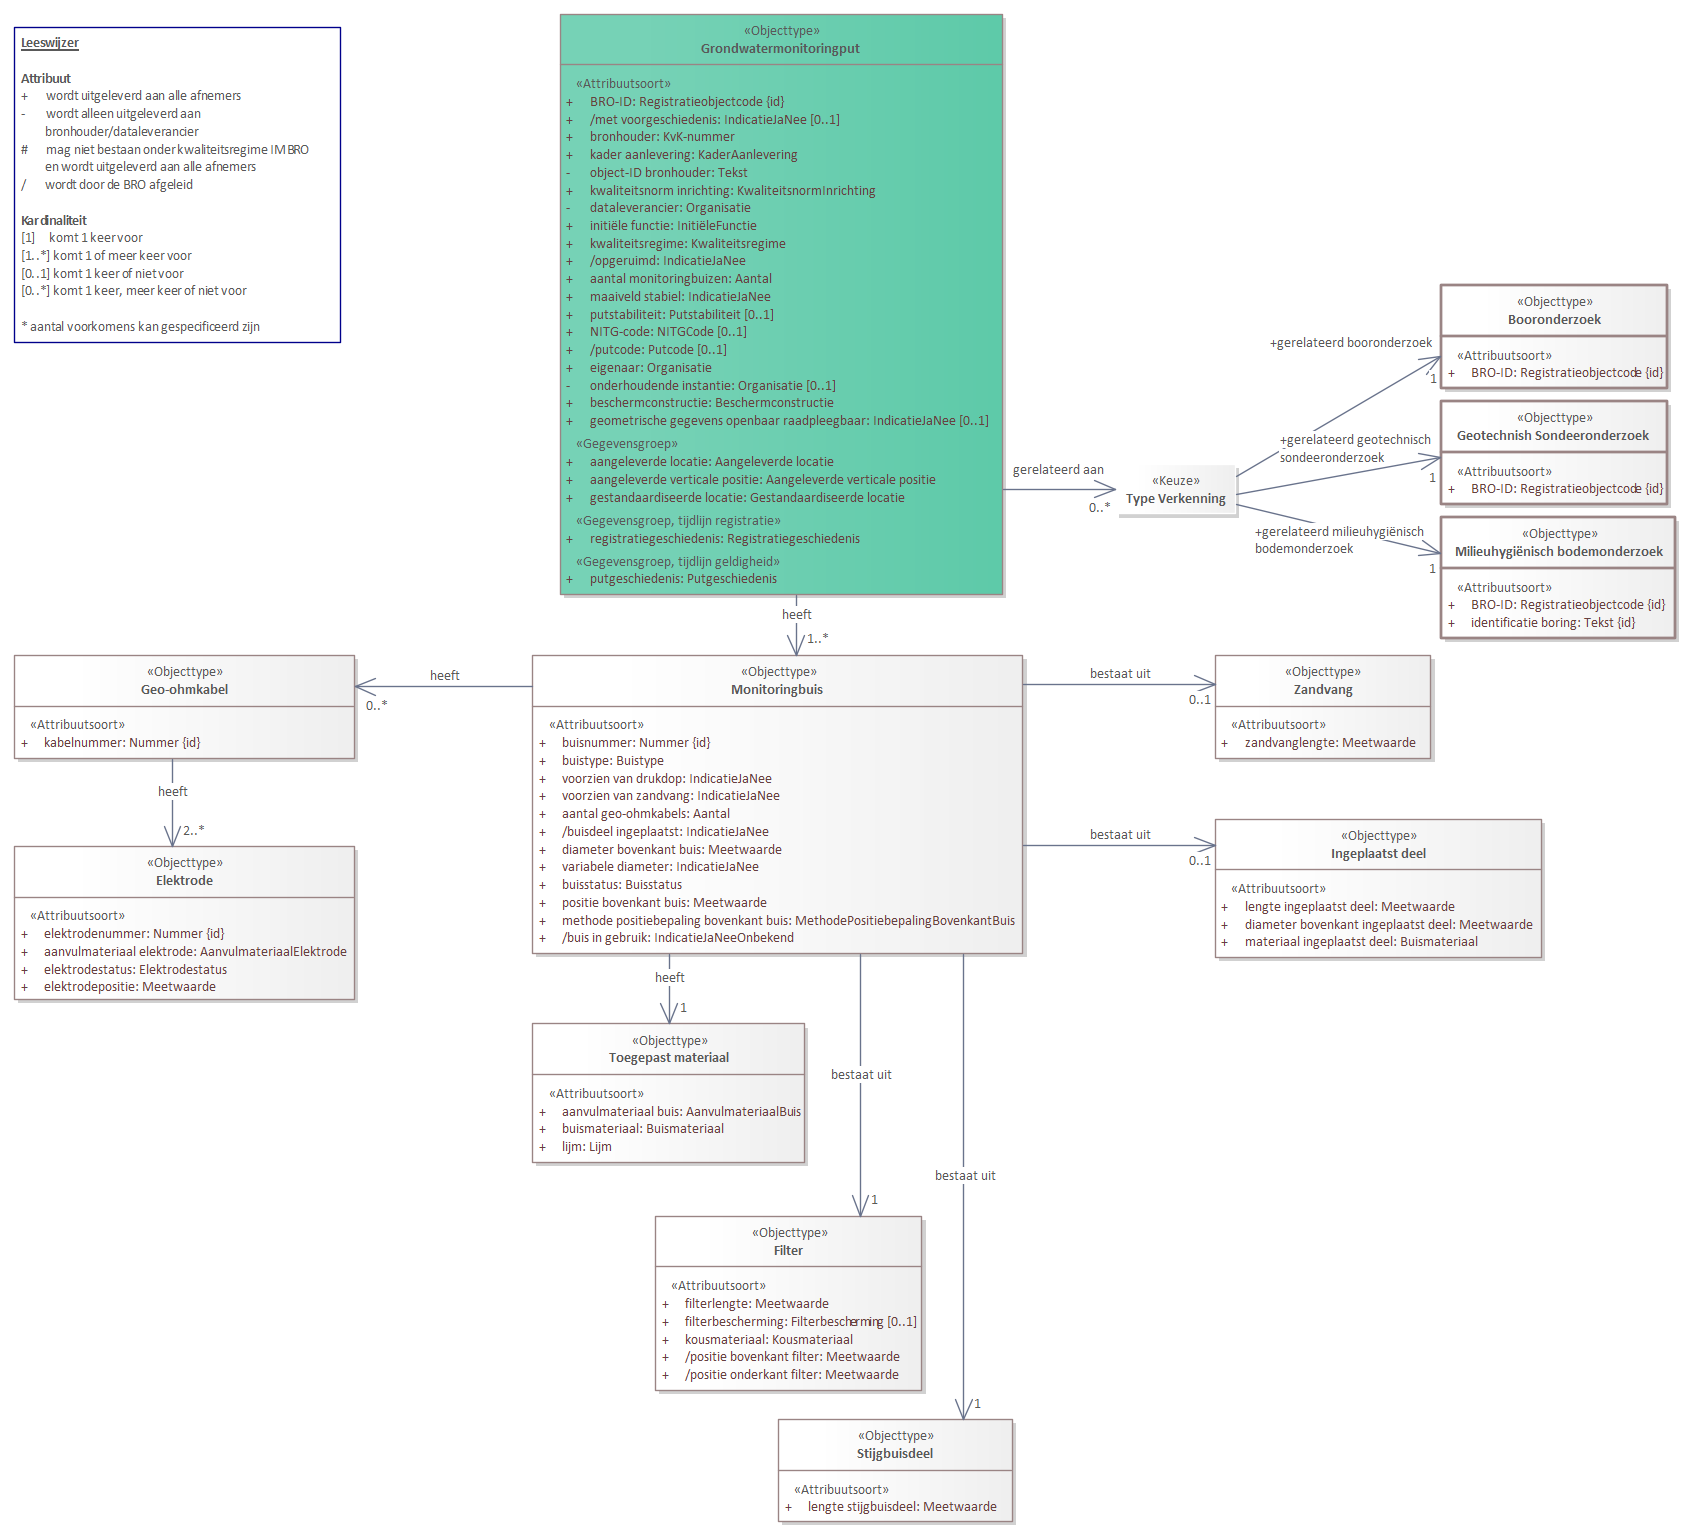
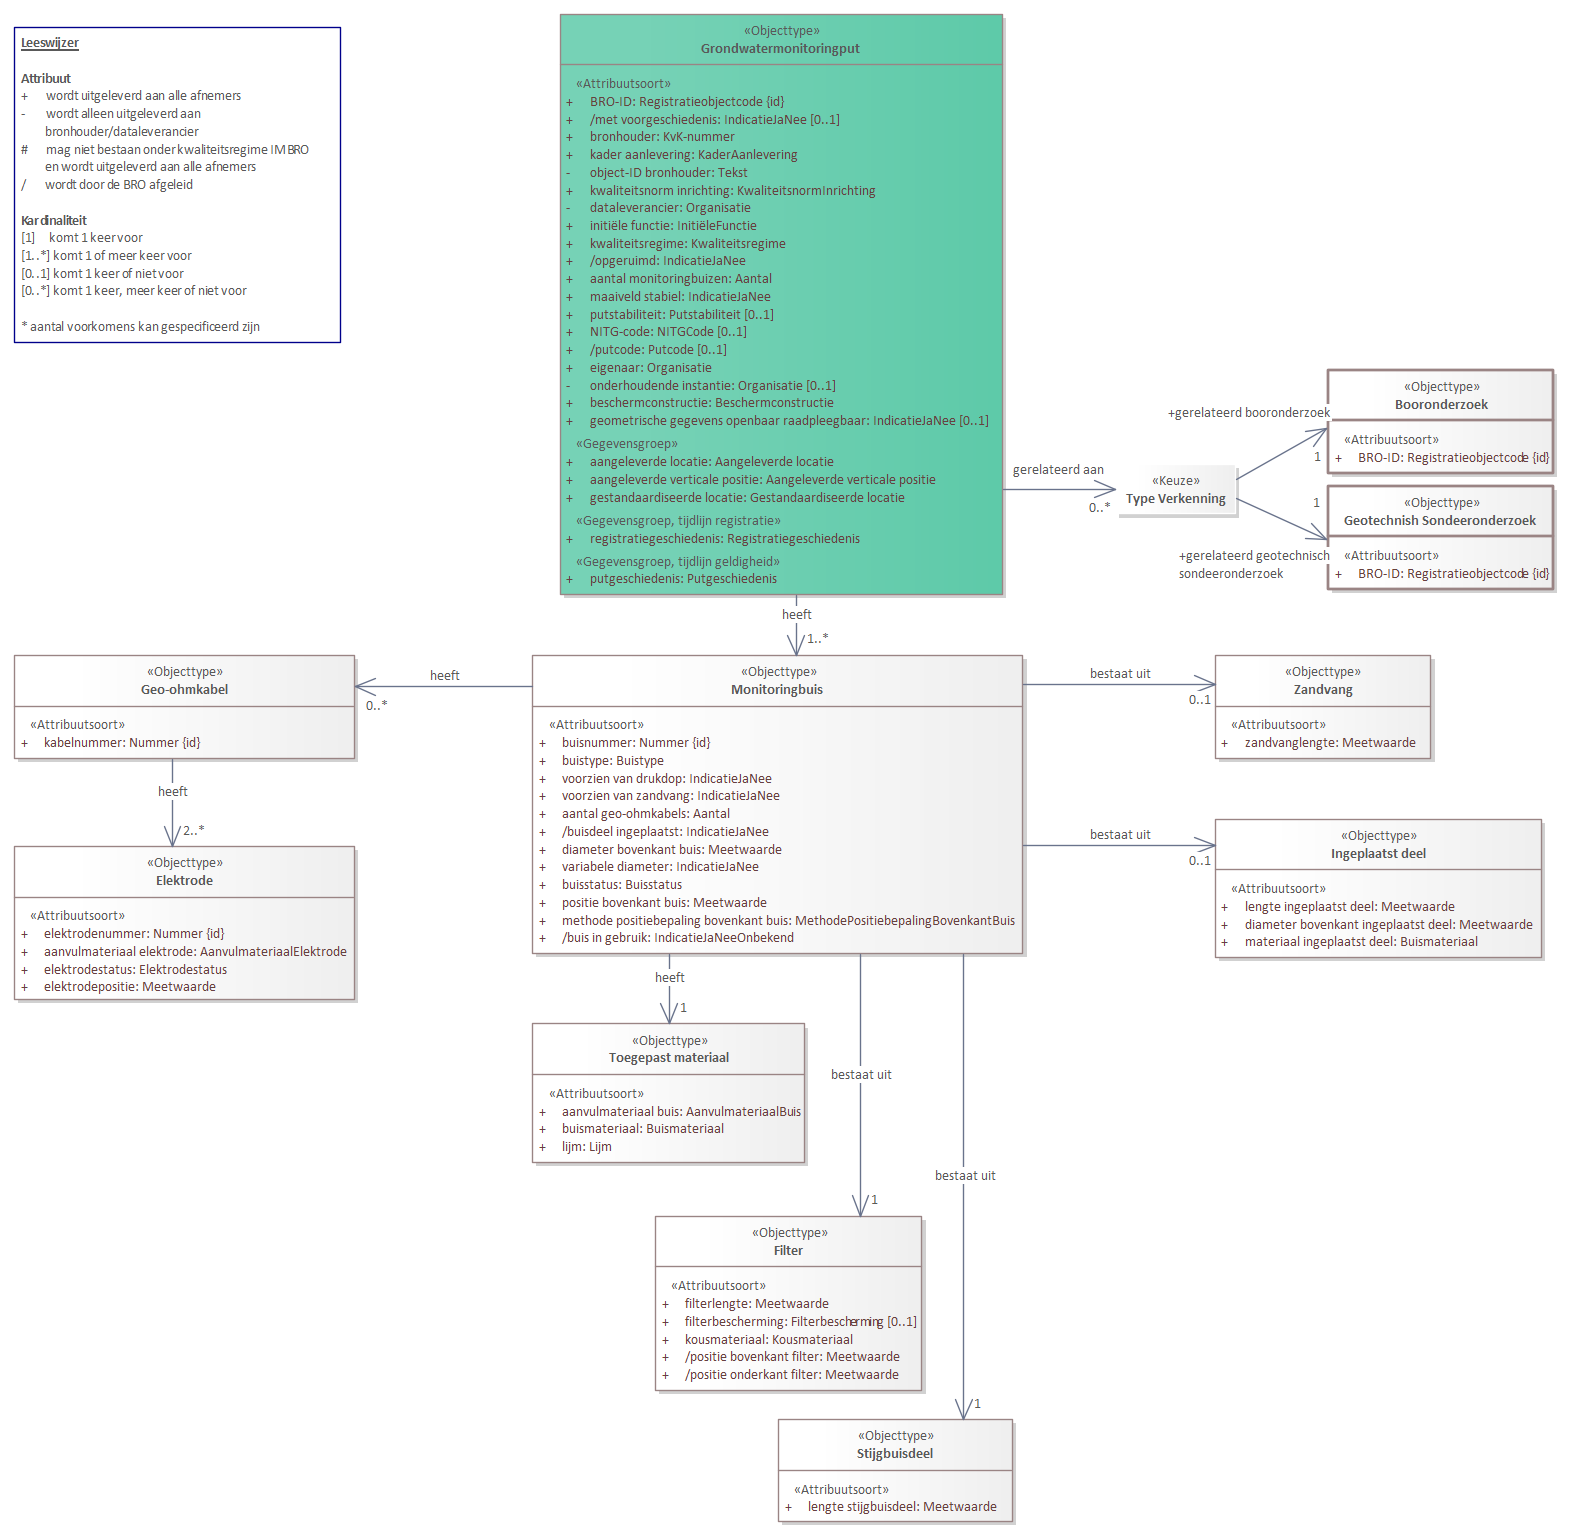
Conceptualmodel-GMWconceptueelMIM-1.1-1-20190910-20231025-214043

diff --git a/data/GMW-cat.msword.html b/data/GMW-cat.msword.html
@@ -15,7 +15,7 @@
    <body>
       <p>Conceptual model/GMW conceptueel MIM/20190910</p>
       <p>Imvertor: Nightly-build.11</p>
-      <p>Model release: Conceptualmodel-GMWconceptueelMIM-1.1-1-20190910-20231025-084140</p>
+      <p>Model release: Conceptualmodel-GMWconceptueelMIM-1.1-1-20190910-20231025-214043</p>
       <hr>
       <section>
          <h1>Artikel 1 Definitie van registratieobject, entiteiten en attributen</h1>
@@ -62,7 +62,7 @@
          <section>
             <h2>Het domeinmodel</h2>
             <section>
-               <div class="imageinfo overview"><img src="Images/EAID_E820AF53_7FB7_42e8_95C4_297D746526CE.png" usemap="#imagemap-EAID_E820AF53_7FB7_42e8_95C4_297D746526CE" alt="Diagram &#xA;                        &#xA;                     "><map name="imagemap-EAID_E820AF53_7FB7_42e8_95C4_297D746526CE"><area shape="rect" alt="Geotechnish Sondeeronderzoek" coords="1441,401,1668,505" href="#global_class_Model_GeotechnishSondeeronderzoek"><area shape="rect" alt="Milieuhygiënisch bodemonderzoek" coords="1441,517,1676,639" href="#global_class_Model_Milieuhyginischbodemonderzoek"><area shape="rect" alt="Type Verkenning" coords="1115,464,1236,514" href="#global_class_Model_TypeVerkenning"><area shape="rect" alt="Booronderzoek" coords="1441,285,1668,389" href="#global_class_Model_Booronderzoek"><area shape="rect" alt="Monitoringbuis" coords="532,655,1023,954" href="#global_class_Model_Monitoringbuis"><area shape="rect" alt="Toegepast materiaal" coords="532,1023,805,1163" href="#global_class_Model_Toegepastmateriaal"><area shape="rect" alt="Ingeplaatst deel" coords="1215,819,1542,958" href="#global_class_Model_Ingeplaatstdeel"><area shape="rect" alt="Zandvang" coords="1215,655,1431,759" href="#global_class_Model_Zandvang"><area shape="rect" alt="Grondwatermonitoringput" coords="560,14,1003,595" href="#global_class_Model_Grondwatermonitoringput"><area shape="rect" alt="Geo-ohmkabel" coords="14,655,355,759" href="#global_class_Model_Geoohmkabel"><area shape="rect" alt="Filter" coords="655,1216,922,1391" href="#global_class_Model_Filter"><area shape="rect" alt="Elektrode" coords="14,846,355,1000" href="#global_class_Model_Elektrode"><area shape="rect" alt="Stijgbuisdeel" coords="778,1419,1013,1522" href="#global_class_Model_Stijgbuisdeel"></map><p><b>Grondwatermonitorput (GMW)</b></p>
+               <div class="imageinfo overview"><img src="Images/EAID_E820AF53_7FB7_42e8_95C4_297D746526CE.png" usemap="#imagemap-EAID_E820AF53_7FB7_42e8_95C4_297D746526CE" alt="Diagram &#xA;                        &#xA;                     "><map name="imagemap-EAID_E820AF53_7FB7_42e8_95C4_297D746526CE"><area shape="rect" alt="Geotechnish Sondeeronderzoek" coords="1328,486,1554,590" href="#global_class_Model_GeotechnishSondeeronderzoek"><area shape="rect" alt="Type Verkenning" coords="1115,464,1236,514" href="#global_class_Model_TypeVerkenning"><area shape="rect" alt="Booronderzoek" coords="1328,370,1554,474" href="#global_class_Model_Booronderzoek"><area shape="rect" alt="Monitoringbuis" coords="532,655,1023,954" href="#global_class_Model_Monitoringbuis"><area shape="rect" alt="Toegepast materiaal" coords="532,1023,805,1163" href="#global_class_Model_Toegepastmateriaal"><area shape="rect" alt="Ingeplaatst deel" coords="1215,819,1542,958" href="#global_class_Model_Ingeplaatstdeel"><area shape="rect" alt="Zandvang" coords="1215,655,1431,759" href="#global_class_Model_Zandvang"><area shape="rect" alt="Grondwatermonitoringput" coords="560,14,1003,595" href="#global_class_Model_Grondwatermonitoringput"><area shape="rect" alt="Geo-ohmkabel" coords="14,655,355,759" href="#global_class_Model_Geoohmkabel"><area shape="rect" alt="Filter" coords="655,1216,922,1391" href="#global_class_Model_Filter"><area shape="rect" alt="Elektrode" coords="14,846,355,1000" href="#global_class_Model_Elektrode"><area shape="rect" alt="Stijgbuisdeel" coords="778,1419,1013,1522" href="#global_class_Model_Stijgbuisdeel"></map><p><b>Grondwatermonitorput (GMW)</b></p>
                </div>
             </section>
          </section>
@@ -5492,8 +5492,7 @@
                            <th>Definitie</th>
                            <td>
                               
-                              <p>Het kenmerk van de verkenning die is uitgevoerd voorafgaand aan de plaatsing van de
-                                 constructie.</p>
+                              <p>Het kenmerk van het booronderzoek dat is gerelateerd aan de inrichting van de grondwatermonitoringput.</p>
                               </td>
                         </tr>
                      </tbody>
@@ -5513,7 +5512,8 @@
                               <th>Definitie</th>
                               <td>
                                  
-                                 <p>De identificatie van een bestaand booronderzoek in de registratie ondergrond. </p>
+                                 <p>De identificatie van een booronderzoek van het registratiedomein bodem- en grondonderzoek
+                                    van de basisregistratie ondergrond.</p>
                                  </td>
                            </tr>
                            <tr>
@@ -5544,9 +5544,7 @@
                               <th>Regels</th>
                               <td>
                                  
-                                 <p>Het <em>BRO-ID</em> moet bestaan in de registratie ondergrond.
-                                    Het <em>BRO-ID</em> moet gerelateerd zijn aan het subdomein booronderzoek van het registratiedomein bodem-
-                                    en grondonderzoek van de registratie ondergrond.</p>
+                                 <p>Het <em>BRO-ID</em> moet gerelateerd zijn aan een bestaand booronderzoek in de basisregistratie ondergrond.</p>
                                  </td>
                            </tr>
                            <tr>
@@ -5575,8 +5573,8 @@
                            <th>Definitie</th>
                            <td>
                               
-                              <p>Het kenmerk van de verkenning die is uitgevoerd voorafgaand aan de plaatsing van de
-                                 constructie. </p>
+                              <p>Het kenmerk van het geotechnisch sondeeronderzoek dat is gerelateerd aan de inrichting
+                                 van de grondwatermonitoringput.</p>
                               </td>
                         </tr>
                      </tbody>
@@ -5596,8 +5594,7 @@
                               <th>Definitie</th>
                               <td>
                                  
-                                 <p>De identificatie van een bestaand geotechnisch sondeeronderzoek in de registratie
-                                    ondergrond.</p>
+                                 <p>De identificatie van een geotechnisch sondeeronderzoek in de basisregistratie ondergrond.</p>
                                  </td>
                            </tr>
                            <tr>
@@ -5628,9 +5625,8 @@
                               <th>Regels</th>
                               <td>
                                  
-                                 <p>Het <em>BRO-ID</em> moet bestaan in de registratie ondergrond.
-                                    Het <em>BRO-ID</em> moet gerelateerd zijn aan het registratieobject geotechnisch sondeeronderzoek van
-                                    het registratiedomein bodem- en grondonderzoek van de registratie ondergrond.</p>
+                                 <p>Het <em>BRO-ID</em> moet gerelateerd zijn aan een bestaand geotechnisch sondeeronderzoek in de basisregistratie
+                                    ondergrond.</p>
                                  </td>
                            </tr>
                            <tr>

diff --git a/data/GMW-cat.respec.html b/data/GMW-cat.respec.html
@@ -40,7 +40,7 @@
       </section>
    <section>
       <h2>Het domeinmodel   </h2>
-      <div class="imageinfo overview"><img src="data/Images/EAID_E820AF53_7FB7_42e8_95C4_297D746526CE.png" usemap="#imagemap-EAID_E820AF53_7FB7_42e8_95C4_297D746526CE" alt="Diagram &#xA;                        &#xA;                     "><map name="imagemap-EAID_E820AF53_7FB7_42e8_95C4_297D746526CE"><area shape="rect" alt="Geotechnish Sondeeronderzoek" coords="1441,401,1668,505" href="#global_class_Model_GeotechnishSondeeronderzoek"><area shape="rect" alt="Milieuhygiënisch bodemonderzoek" coords="1441,517,1676,639" href="#global_class_Model_Milieuhyginischbodemonderzoek"><area shape="rect" alt="Type Verkenning" coords="1115,464,1236,514" href="#global_class_Model_TypeVerkenning"><area shape="rect" alt="Booronderzoek" coords="1441,285,1668,389" href="#global_class_Model_Booronderzoek"><area shape="rect" alt="Monitoringbuis" coords="532,655,1023,954" href="#global_class_Model_Monitoringbuis"><area shape="rect" alt="Toegepast materiaal" coords="532,1023,805,1163" href="#global_class_Model_Toegepastmateriaal"><area shape="rect" alt="Ingeplaatst deel" coords="1215,819,1542,958" href="#global_class_Model_Ingeplaatstdeel"><area shape="rect" alt="Zandvang" coords="1215,655,1431,759" href="#global_class_Model_Zandvang"><area shape="rect" alt="Grondwatermonitoringput" coords="560,14,1003,595" href="#global_class_Model_Grondwatermonitoringput"><area shape="rect" alt="Geo-ohmkabel" coords="14,655,355,759" href="#global_class_Model_Geoohmkabel"><area shape="rect" alt="Filter" coords="655,1216,922,1391" href="#global_class_Model_Filter"><area shape="rect" alt="Elektrode" coords="14,846,355,1000" href="#global_class_Model_Elektrode"><area shape="rect" alt="Stijgbuisdeel" coords="778,1419,1013,1522" href="#global_class_Model_Stijgbuisdeel"></map><p><b>Grondwatermonitorput (GMW)</b></p>
+      <div class="imageinfo overview"><img src="data/Images/EAID_E820AF53_7FB7_42e8_95C4_297D746526CE.png" usemap="#imagemap-EAID_E820AF53_7FB7_42e8_95C4_297D746526CE" alt="Diagram &#xA;                        &#xA;                     "><map name="imagemap-EAID_E820AF53_7FB7_42e8_95C4_297D746526CE"><area shape="rect" alt="Geotechnish Sondeeronderzoek" coords="1328,486,1554,590" href="#global_class_Model_GeotechnishSondeeronderzoek"><area shape="rect" alt="Type Verkenning" coords="1115,464,1236,514" href="#global_class_Model_TypeVerkenning"><area shape="rect" alt="Booronderzoek" coords="1328,370,1554,474" href="#global_class_Model_Booronderzoek"><area shape="rect" alt="Monitoringbuis" coords="532,655,1023,954" href="#global_class_Model_Monitoringbuis"><area shape="rect" alt="Toegepast materiaal" coords="532,1023,805,1163" href="#global_class_Model_Toegepastmateriaal"><area shape="rect" alt="Ingeplaatst deel" coords="1215,819,1542,958" href="#global_class_Model_Ingeplaatstdeel"><area shape="rect" alt="Zandvang" coords="1215,655,1431,759" href="#global_class_Model_Zandvang"><area shape="rect" alt="Grondwatermonitoringput" coords="560,14,1003,595" href="#global_class_Model_Grondwatermonitoringput"><area shape="rect" alt="Geo-ohmkabel" coords="14,655,355,759" href="#global_class_Model_Geoohmkabel"><area shape="rect" alt="Filter" coords="655,1216,922,1391" href="#global_class_Model_Filter"><area shape="rect" alt="Elektrode" coords="14,846,355,1000" href="#global_class_Model_Elektrode"><area shape="rect" alt="Stijgbuisdeel" coords="778,1419,1013,1522" href="#global_class_Model_Stijgbuisdeel"></map><p><b>Grondwatermonitorput (GMW)</b></p>
       </div>
    </section>
    <section>
@@ -5468,8 +5468,7 @@
                   <th>Definitie</th>
                   <td>
                      
-                     <p>Het kenmerk van de verkenning die is uitgevoerd voorafgaand aan de plaatsing van de
-                        constructie.</p>
+                     <p>Het kenmerk van het booronderzoek dat is gerelateerd aan de inrichting van de grondwatermonitoringput.</p>
                      </td>
                </tr>
             </tbody>
@@ -5489,7 +5488,8 @@
                      <th>Definitie</th>
                      <td>
                         
-                        <p>De identificatie van een bestaand booronderzoek in de registratie ondergrond. </p>
+                        <p>De identificatie van een booronderzoek van het registratiedomein bodem- en grondonderzoek
+                           van de basisregistratie ondergrond.</p>
                         </td>
                   </tr>
                   <tr>
@@ -5520,9 +5520,7 @@
                      <th>Regels</th>
                      <td>
                         
-                        <p>Het <em>BRO-ID</em> moet bestaan in de registratie ondergrond.
-                           Het <em>BRO-ID</em> moet gerelateerd zijn aan het subdomein booronderzoek van het registratiedomein bodem-
-                           en grondonderzoek van de registratie ondergrond.</p>
+                        <p>Het <em>BRO-ID</em> moet gerelateerd zijn aan een bestaand booronderzoek in de basisregistratie ondergrond.</p>
                         </td>
                   </tr>
                   <tr>
@@ -5551,8 +5549,8 @@
                   <th>Definitie</th>
                   <td>
                      
-                     <p>Het kenmerk van de verkenning die is uitgevoerd voorafgaand aan de plaatsing van de
-                        constructie. </p>
+                     <p>Het kenmerk van het geotechnisch sondeeronderzoek dat is gerelateerd aan de inrichting
+                        van de grondwatermonitoringput.</p>
                      </td>
                </tr>
             </tbody>
@@ -5572,8 +5570,7 @@
                      <th>Definitie</th>
                      <td>
                         
-                        <p>De identificatie van een bestaand geotechnisch sondeeronderzoek in de registratie
-                           ondergrond.</p>
+                        <p>De identificatie van een geotechnisch sondeeronderzoek in de basisregistratie ondergrond.</p>
                         </td>
                   </tr>
                   <tr>
@@ -5604,9 +5601,8 @@
                      <th>Regels</th>
                      <td>
                         
-                        <p>Het <em>BRO-ID</em> moet bestaan in de registratie ondergrond.
-                           Het <em>BRO-ID</em> moet gerelateerd zijn aan het registratieobject geotechnisch sondeeronderzoek van
-                           het registratiedomein bodem- en grondonderzoek van de registratie ondergrond.</p>
+                        <p>Het <em>BRO-ID</em> moet gerelateerd zijn aan een bestaand geotechnisch sondeeronderzoek in de basisregistratie
+                           ondergrond.</p>
                         </td>
                   </tr>
                   <tr>
